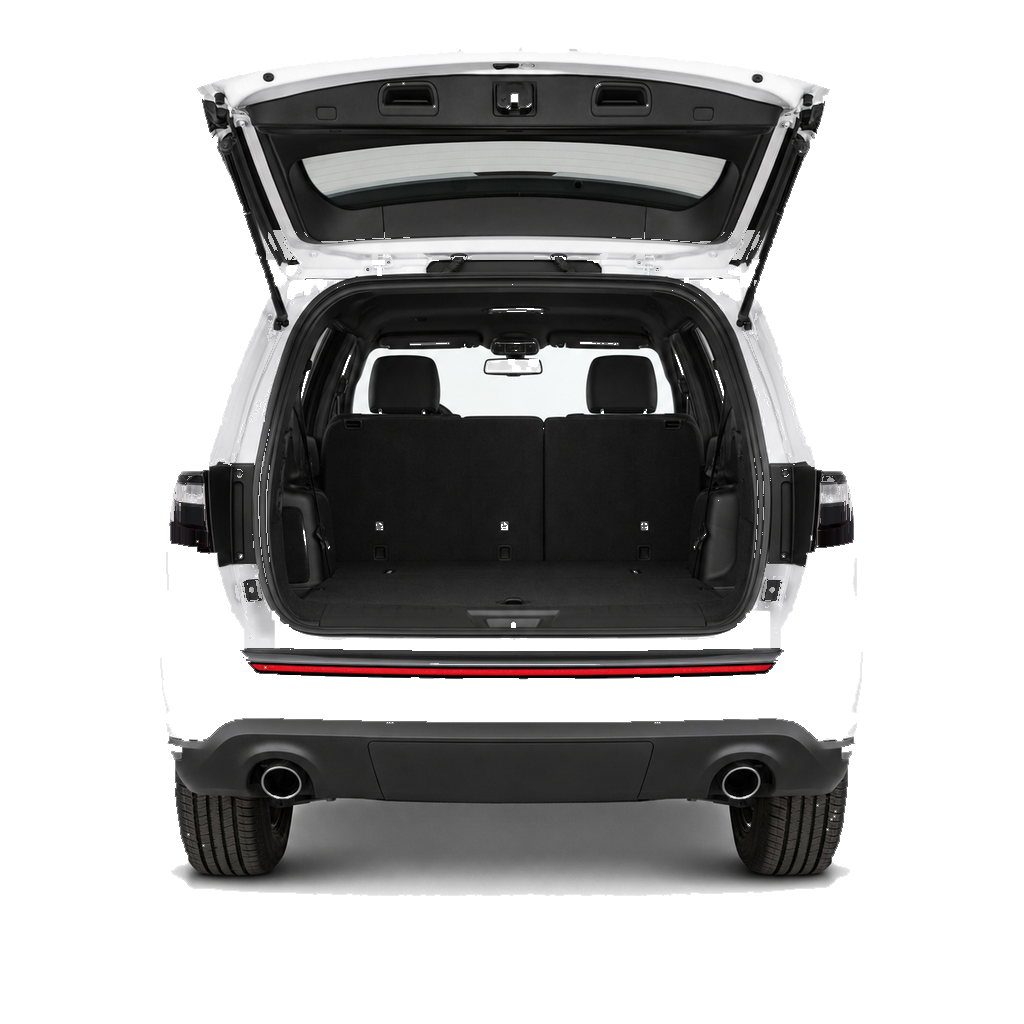
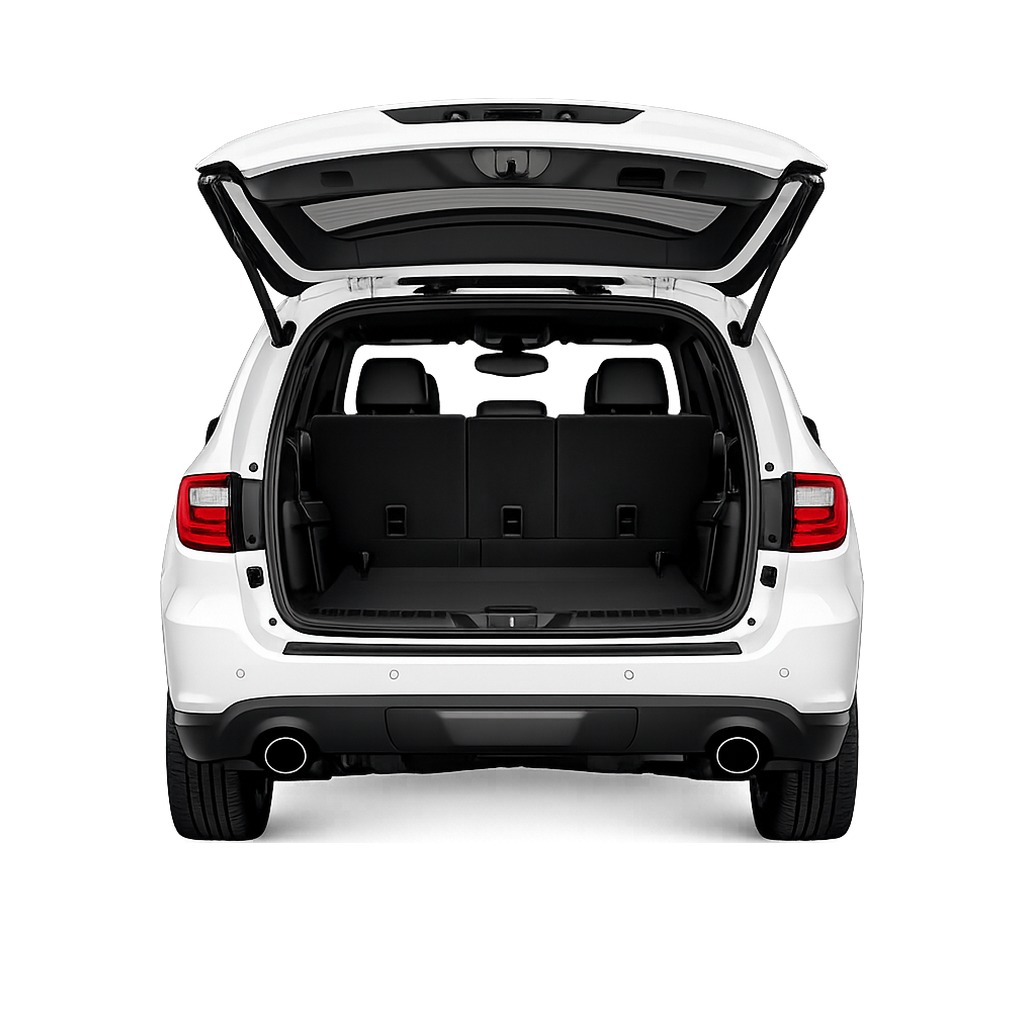
Copy signed-off Durango Hatch Open plate from piu-lighting-visualizer
Overwrite visualizer/durango_rear_open.png with the exact PNG bytes from
9z2zc74skw-dev/piu-lighting-visualizer @ b95061d (client/public/durango_rear_open.png).
1024x1024 RGBA, 794424 bytes. Bump ASSET_V to studio6. No recut.

diff --git a/visualizer/index.html b/visualizer/index.html
@@ -200,7 +200,7 @@ select:focus,input[type=text]:focus{box-shadow:0 0 0 2px color-mix(in srgb,var(-
 (function(){
 /* Multi-canvas visualizer. Catalog is shared FedSig SKUs (no invented lights).
    Durango mounts stay as previously signed; trucks have their own snaps. */
-var ASSET_V="studio5";
+var ASSET_V="studio6";
 var FX_V="max4";
 var DURANGO_VIEWS=[
   {id:"front",label:"Front",imgW:"durango_front.png",imgB:"durango_front_black.png"},
